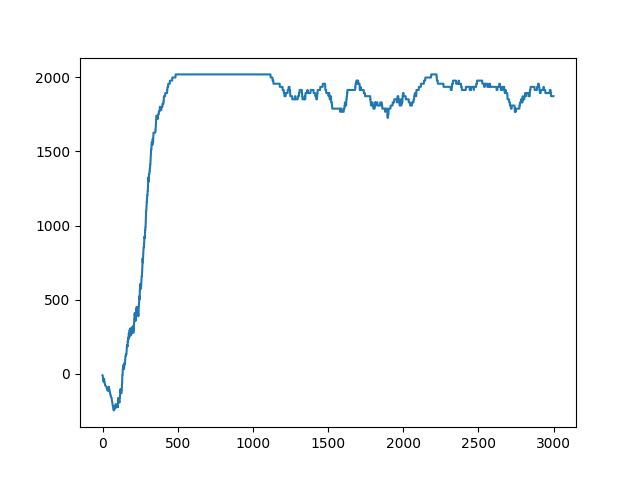
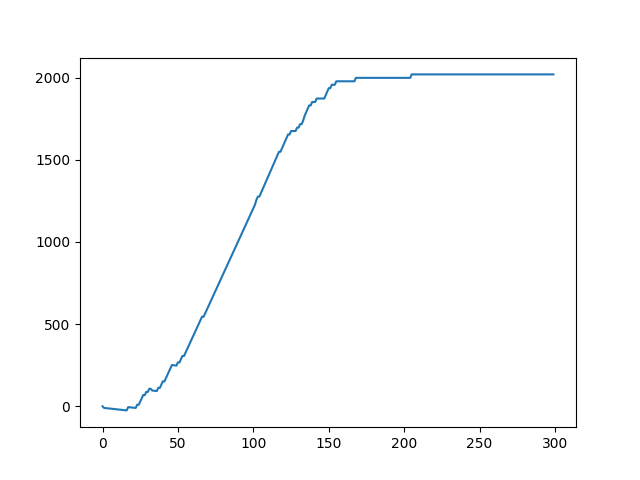
pcham

diff --git a/3_projekt/taxi.py b/3_projekt/taxi.py
@@ -4,28 +4,27 @@ import matplotlib.pyplot as plt
 import pickle
 
 def run(episodes, is_training=True, render=False):
-
     env = gym.make('Taxi-v3', render_mode='human' if render else None)
 
     if(is_training):
-        q = np.zeros((env.observation_space.n, env.action_space.n)) # init a 64 x 4 array
+        q = np.zeros((env.observation_space.n, env.action_space.n))
     else:
         f = open('taxi.pkl', 'rb')
         q = pickle.load(f)
         f.close()
 
-    learning_rate_a = 0.9 # alpha or learning rate
-    discount_factor_g = 0.9 # gamma or discount rate. Near 0: more weight/reward placed on immediate state. Near 1: more on future state.
-    epsilon = 1         # 1 = 100% random actions
-    epsilon_decay_rate = 0.0001        # epsilon decay rate. 1/0.0001 = 10,000
-    rng = np.random.default_rng()   # random number generator
+    learning_rate_a = 0.9
+    discount_factor_g = 0.9
+    epsilon = 0.02
+    epsilon_decay_rate = 0.001
+    rng = np.random.default_rng()
 
     rewards_per_episode = np.zeros(episodes)
 
     for i in range(episodes):
-        state = env.reset()[0]  # states: 0 to 63, 0=top left corner,63=bottom right corner
-        terminated = False      # True when fall in hole or reached goal
-        truncated = False       # True when actions > 200
+        state = env.reset()[0]
+        terminated = False
+        truncated = False
 
         while(not terminated and not truncated):
             if is_training and rng.random() < epsilon:
@@ -33,19 +32,13 @@ def run(episodes, is_training=True, render=False):
             else:
                 action = np.argmax(q[state,:])
 
-            new_state,reward,terminated,truncated,_ = env.step(action)
+            new_state, reward, terminated, truncated, _ = env.step(action)
 
             if is_training:
-                q[state,action] = q[state,action] + learning_rate_a * (
-                    reward + discount_factor_g * np.max(q[new_state,:]) - q[state,action]
-                )
-
+                q[state,action] += learning_rate_a * (reward + discount_factor_g * np.max(q[new_state,:]) - q[state,action])
             state = new_state
 
         epsilon = max(epsilon - epsilon_decay_rate, 0)
-
-        if(epsilon==0):
-            learning_rate_a = 0.0001
 
         rewards_per_episode[i] = reward
 
@@ -65,4 +58,6 @@ def run(episodes, is_training=True, render=False):
 if __name__ == '__main__':
     # run(15000)
 
-    run(3000, is_training=True, render=False)
+
+    # run(100, is_training=False, render=True)
+    run(300, is_training=True, render=False)
